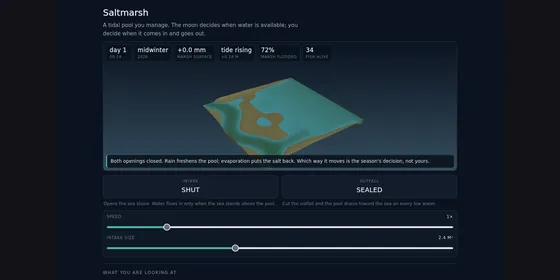
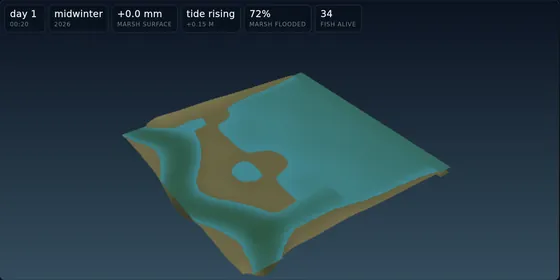
showcase: saltmarsh card is now the marsh, not a picture of this page
saltmarsh's README image had regressed to a whole-page screenshot, so its 2:1
card crop rendered the showcase page inside its own card. The source is now the
canvas alone at 2:1 with the narration suppressed, so the crop is a downscale and
the marsh and its HUD fill the card.

diff --git a/tools/make_thumbs.py b/tools/make_thumbs.py
@@ -62,11 +62,12 @@ THUMB_ASPECT = 2.0
 #          cropping is not a compromise but a deletion.
 FRAMING: dict[str, str] = {
     "aurelia": "letter",
-    # saltmarsh's card image is the 3D view clipped out of the page, so it is a
-    # wide, short frame (2.93:1) whose subject -- the marsh -- occupies the
-    # vertical middle. A centre crop to 2:1 therefore zooms into the marsh and
-    # cuts off the channel and both banks, which is the whole thing the card is
-    # advertising; letterboxing loses a band of empty sky top and bottom instead.
+    # saltmarsh's card image is the 3D view alone, narration suppressed, captured
+    # at 2:1 so the card is a downscale with nothing cut.
+    # Captured at exactly 2:1 (see the capture recipe in that repo's README), so
+    # letterboxing costs nothing and keeps the whole marsh; "center" would be
+    # equivalent here and would silently cut it again the next time the source's
+    # aspect drifts.
     "saltmarsh": "letter",
 }
 
